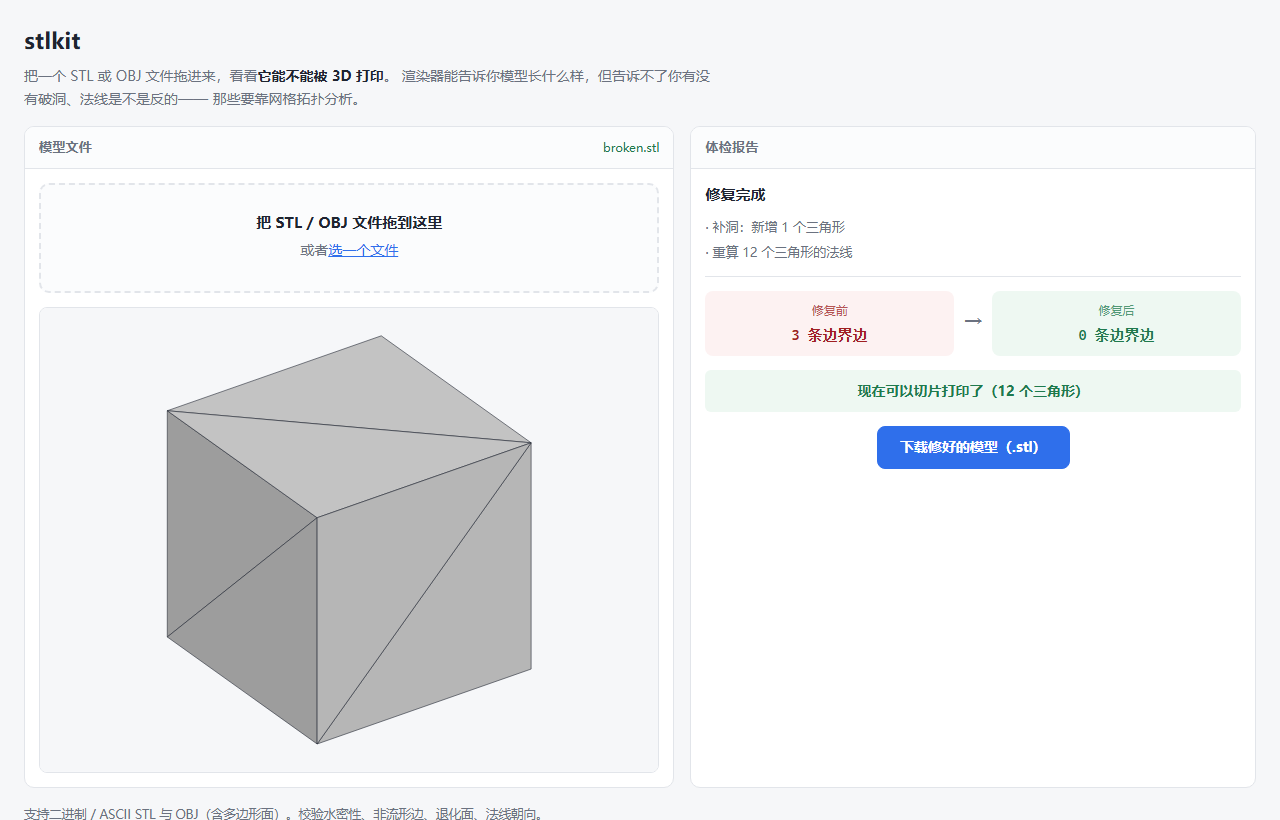
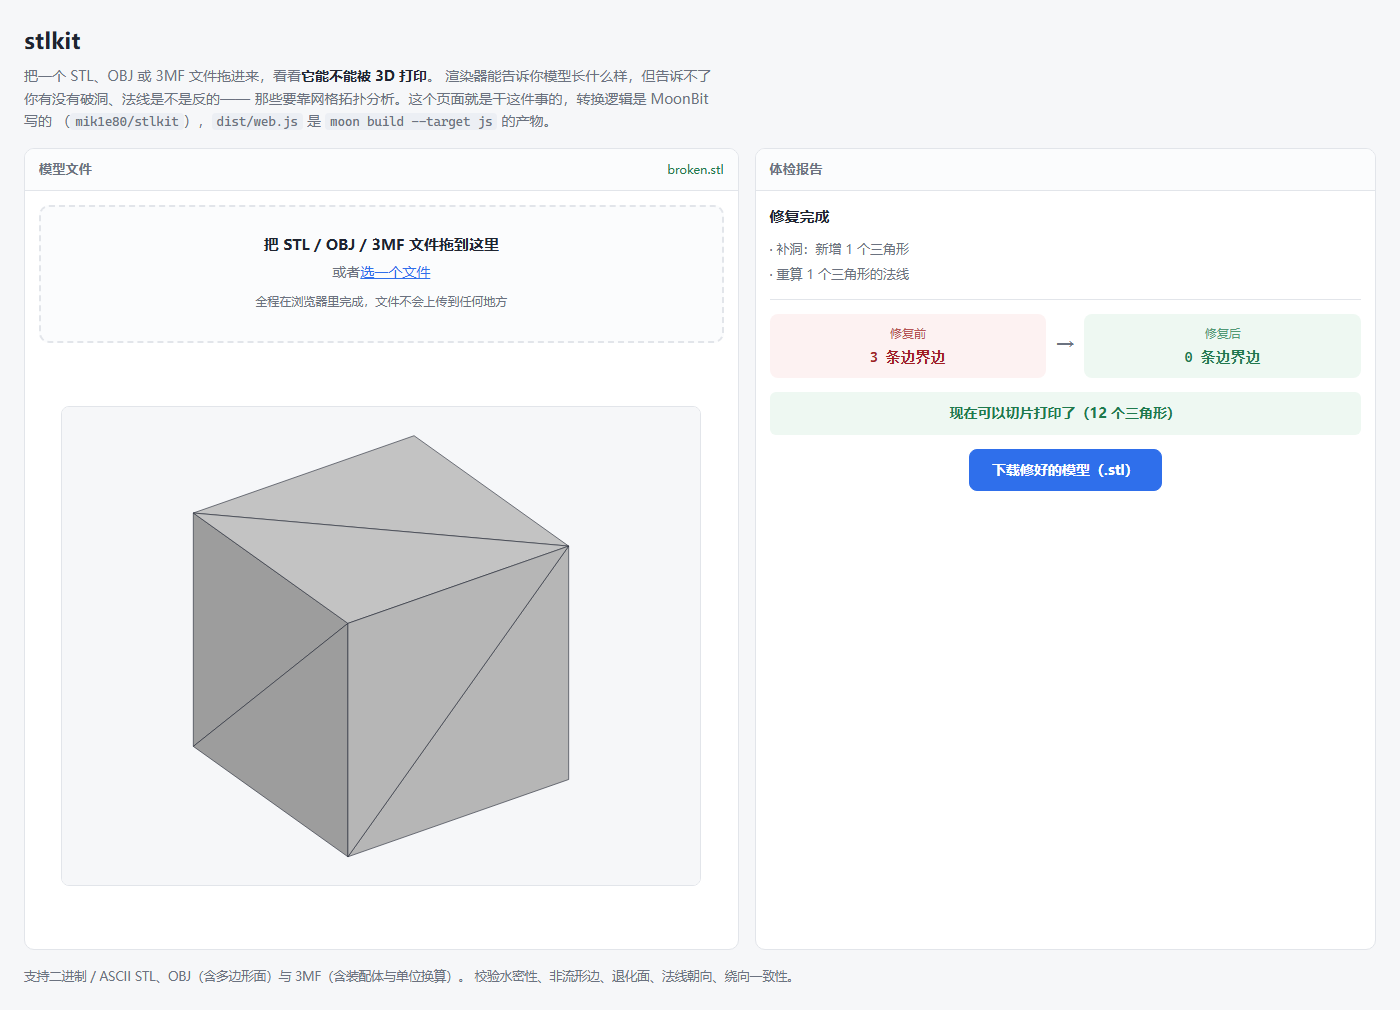
重新生成网页截图，底部说明补上绕向一致性
三张截图还是 9-22 做的，页面上三处都写着「STL / OBJ」没有 3MF——而
README 第一眼就是这张图。重做了一遍：

- 主图改成加载 torus.3mf，报告里「格式」一栏现在显示 3MF，
  五项检查（含绕向）齐全，底部说明也带 3MF 了
- 破洞图用 broken.stl 重截，能看到「修复这个模型」按钮
- 修复图重截，显示「补洞：新增 1 个三角形」和
  「修复前 3 条边界边 → 修复后 0 条边界边」

另外发现页面底部只列了四项检查，漏了「绕向一致性」——而报告里是五项，
补上了。

截图是用无头 Edge 加载一个临时的自动演示页拍的（构造 File 对象直接喂给
handleFile），拍完临时文件已删。

diff --git a/web/index.html b/web/index.html
@@ -48,7 +48,7 @@
     <footer class="page-foot">
       <span>
         支持二进制 / ASCII STL、OBJ（含多边形面）与 3MF（含装配体与单位换算）。
-        校验水密性、非流形边、退化面、法线朝向。
+        校验水密性、非流形边、退化面、法线朝向、绕向一致性。
       </span>
     </footer>
 
